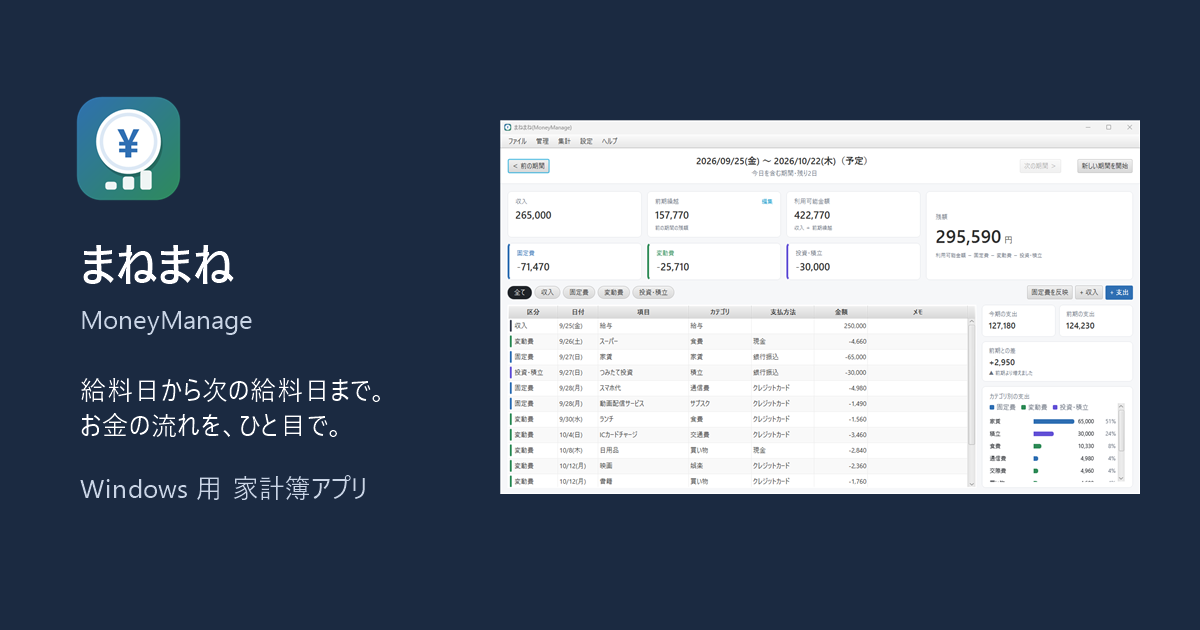
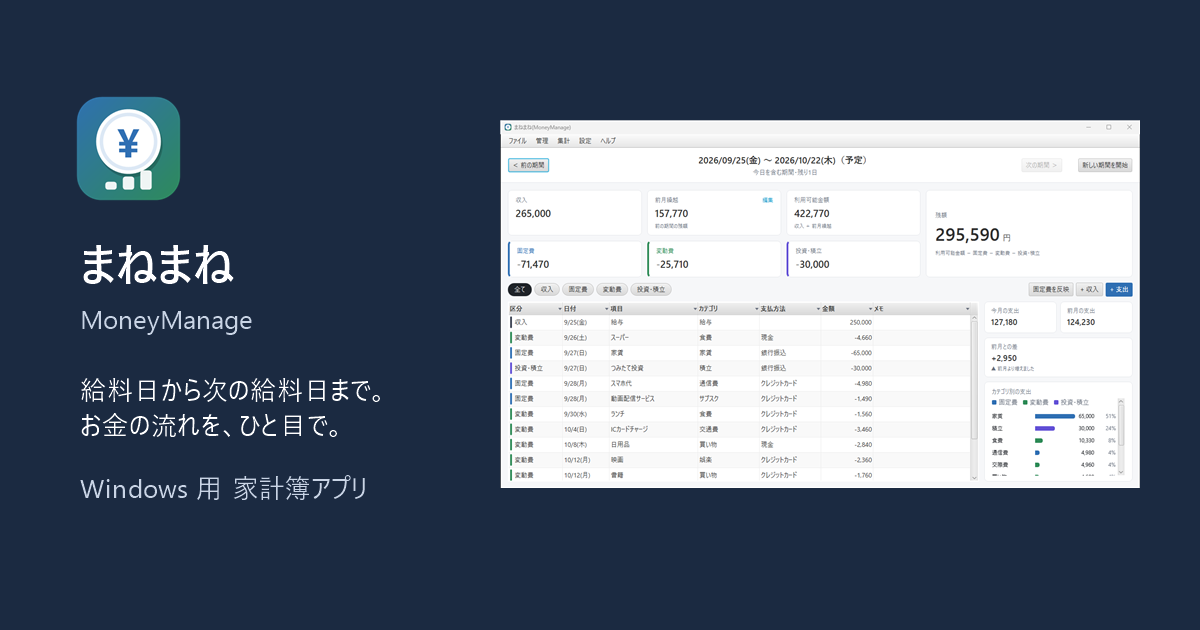
スクリーンショットを撮り直し、使い方に並べ替え・絞り込みと起動時のパスワードを追記
- メイン画面・アプリ内の使い方・OGP 画像を最新の画面（前月表記・列見出しの印）に更新
- 並べ替え・絞り込み、設定、パスワード入力の画面を追加
- 使い方ページに「並べ替え・絞り込み」「起動時のパスワード」の項目と Alt+↓ の操作を追加

diff --git a/guide.html b/guide.html
@@ -16,7 +16,7 @@
   <link rel="preconnect" href="https://fonts.googleapis.com">
   <link rel="preconnect" href="https://fonts.gstatic.com" crossorigin>
   <link href="https://fonts.googleapis.com/css2?family=Noto+Sans+JP:wght@400;500;700&display=swap" rel="stylesheet">
-  <link rel="stylesheet" href="assets/css/style.css?v=20261022a">
+  <link rel="stylesheet" href="assets/css/style.css?v=20261022b">
 </head>
 <body>
   <a class="skip-link" href="#main">本文へ移動</a>
@@ -58,11 +58,13 @@
           <li><a href="#install">ダウンロードと起動</a></li>
           <li><a href="#setup">初回セットアップ</a></li>
           <li><a href="#screen">メイン画面の見方</a></li>
+          <li><a href="#filter">並べ替え・絞り込み</a></li>
           <li><a href="#entries">明細の登録・編集</a></li>
           <li><a href="#period">新しい期間と繰越</a></li>
           <li><a href="#fixed">固定費</a></li>
           <li><a href="#reports">集計（グラフ・年間）</a></li>
           <li><a href="#masters">カテゴリ・支払方法</a></li>
+          <li><a href="#password">起動時のパスワード</a></li>
           <li><a href="#backup">バックアップと PC の移行</a></li>
           <li><a href="#excel">Excel の書き出し・取り込み</a></li>
           <li><a href="#keys">キーボードの操作</a></li>
@@ -110,7 +112,7 @@
         <section id="screen" aria-labelledby="h-screen">
           <h2 id="h-screen">メイン画面の見方</h2>
           <figure>
-            <img src="assets/img/screens/main.png" width="1398" height="817" loading="lazy" alt="メイン画面">
+            <img src="assets/img/screens/main.png" width="1424" height="818" loading="lazy" alt="メイン画面">
             <figcaption>メイン画面（金額は説明用の架空のデータです）</figcaption>
           </figure>
           <div class="table-wrap">
@@ -126,7 +128,25 @@
               </tbody>
             </table>
           </div>
-          <p>右側には、今月と前月の支出、カテゴリ別の支出のグラフが表示されます。明細の一覧は「全て／収入／固定費／変動費／投資・積立」で絞り込めます。</p>
+          <p>右側には、今月と前月の支出、カテゴリ別の支出のグラフが表示されます。明細の一覧は「全て／収入／固定費／変動費／投資・積立」で絞り込めます。列の見出しからは、並べ替えや値ごとの絞り込みもできます（次の項目）。</p>
+        </section>
+
+        <section id="filter" aria-labelledby="h-filter">
+          <h2 id="h-filter">並べ替え・絞り込み</h2>
+          <p>明細の一覧の列の見出し（区分・日付・項目・カテゴリ・支払方法・金額・メモ）をクリックすると、Excel のフィルターのようなメニューが開きます。</p>
+          <figure>
+            <img src="assets/img/screens/filter.png" width="880" height="499" loading="lazy" alt="支払方法の見出しから開いたメニュー。並べ替えのボタンと、値ごとのチェック（クレジットカードだけにチェック）があり、一覧はクレジットカードの明細だけになっている">
+            <figcaption>「支払方法」をクレジットカードだけに絞り込んだところ</figcaption>
+          </figure>
+          <ul>
+            <li><strong>並べ替え</strong> … 日付は「古い順／新しい順」、金額は「小さい順／大きい順」、文字は五十音順。「並べ替えを解除」で元の順（日付順）に戻ります。</li>
+            <li><strong>絞り込み</strong> … 表示したい値にチェックを入れて「OK」。検索欄に入力すると、値の一覧を絞り込めます。空欄の値は「（空白）」と表示されます。</li>
+            <li>複数の列で同時に絞り込めます。上の「全て／収入／固定費…」のボタンとも組み合わせられ、期間を切り替えても絞り込みは残ります。</li>
+            <li>絞り込み中の列は見出しが青くなり、漏斗の印が付きます。並べ替え中の列には ↑ ↓ が付きます。下の欄には「（絞り込み中: ◯件中）」と表示されます。</li>
+            <li>「並べ替え・絞り込みを全解除」で、元の表示に戻ります。</li>
+          </ul>
+          <p>キーボードでは、一覧で <kbd>Alt</kbd> + <kbd>↓</kbd> を押すとメニューが開きます。メニューの中では <kbd>←</kbd> <kbd>→</kbd> で隣の列に移り、<kbd>Space</kbd> でチェックの切り替え、<kbd>Enter</kbd> で決定、<kbd>Esc</kbd> で閉じます。</p>
+          <p class="callout">並べ替え・絞り込みは表示だけの変更です。登録されている明細や集計の金額は変わりません。</p>
         </section>
 
         <section id="entries" aria-labelledby="h-entries">
@@ -179,6 +199,24 @@
           <p>メニュー「管理」→「カテゴリ・支払方法…」で、追加・名前の変更・並べ替え・削除ができます。明細や固定費で使われているものは、削除の代わりに「無効」になります（過去の明細には残り、新しい入力の選択肢から消えます）。「無効も表示」にチェックすると、有効に戻せます。</p>
         </section>
 
+        <section id="password" aria-labelledby="h-password">
+          <h2 id="h-password">起動時のパスワード</h2>
+          <p>メニュー「設定」→「設定…」の「起動時のパスワード」で、アプリを開くときにパスワードの入力を求めるようにできます。</p>
+          <figure>
+            <img src="assets/img/screens/settings.png" width="522" height="361" loading="lazy" alt="設定の画面。起動時のパスワードがオンで、「無効にする」「パスワードを変更」のボタンがある">
+          </figure>
+          <ul>
+            <li><strong>オンにする</strong> … 「パスワードを設定して有効にする」を押し、パスワード（4〜64文字）を確認用と合わせて2回入力します。</li>
+            <li><strong>オフにする・もう一度オンにする・変更する</strong> … どれも現在のパスワードの入力が必要です。</li>
+            <li>オフにしても、設定したパスワードは残ります（もう一度オンにするときに使います）。</li>
+          </ul>
+          <p>オンのときは、起動するとパスワードの入力画面だけが表示されます。正しいパスワードを入力するまで、明細や集計は表示されません。</p>
+          <figure>
+            <img src="assets/img/screens/login.png" width="402" height="183" loading="lazy" alt="起動時のパスワード入力画面">
+          </figure>
+          <p class="callout"><strong>パスワードを忘れると、アプリを開けなくなります</strong>（再設定の方法はありません）。また、これはアプリを開くときの確認で、データのファイル自体は暗号化されません。バックアップから復元すると、パスワードの設定もバックアップした時点のものに戻ります。</p>
+        </section>
+
         <section id="backup" aria-labelledby="h-backup">
           <h2 id="h-backup">バックアップと PC の移行</h2>
           <ul>
@@ -229,6 +267,7 @@
                 <tr><td><kbd>Alt</kbd> + <kbd>←</kbd> / <kbd>→</kbd></td><td>前の期間／次の期間</td></tr>
                 <tr><td><kbd>Enter</kbd>（一覧で）</td><td>選んだ明細を編集</td></tr>
                 <tr><td><kbd>Delete</kbd>（一覧で）</td><td>選んだ明細を削除</td></tr>
+                <tr><td><kbd>Alt</kbd> + <kbd>↓</kbd>（一覧で）</td><td>選んだ列の並べ替え・絞り込みのメニューを開く</td></tr>
                 <tr><td><kbd>Esc</kbd></td><td>入力画面を閉じる</td></tr>
               </tbody>
             </table>
@@ -289,7 +328,7 @@
     </div>
   </footer>
 
-  <script src="assets/js/site-config.js?v=20261022a"></script>
-  <script src="assets/js/main.js?v=20261022a"></script>
+  <script src="assets/js/site-config.js?v=20261022b"></script>
+  <script src="assets/js/main.js?v=20261022b"></script>
 </body>
 </html>

diff --git a/index.html b/index.html
@@ -18,7 +18,7 @@
   <link rel="preconnect" href="https://fonts.googleapis.com">
   <link rel="preconnect" href="https://fonts.gstatic.com" crossorigin>
   <link href="https://fonts.googleapis.com/css2?family=Noto+Sans+JP:wght@400;500;700&display=swap" rel="stylesheet">
-  <link rel="stylesheet" href="assets/css/style.css?v=20261022a">
+  <link rel="stylesheet" href="assets/css/style.css?v=20261022b">
 </head>
 <body>
   <a class="skip-link" href="#main">本文へ移動</a>
@@ -66,7 +66,7 @@
           </ul>
         </div>
         <figure class="shot-frame">
-          <img src="assets/img/screens/main.png" width="1398" height="817"
+          <img src="assets/img/screens/main.png" width="1424" height="818"
                alt="まねまね(MoneyManage) のメイン画面。期間 2026/09/25〜10/22 の収入・前月繰越・利用可能金額・固定費・変動費・投資・積立・残額のカードと、明細の一覧、カテゴリ別の支出グラフが表示されている">
         </figure>
       </div>
@@ -109,7 +109,7 @@
           <article class="feature">
             <span class="feature-icon" aria-hidden="true"><svg width="22" height="22" viewBox="0 0 24 24" fill="none" stroke="currentColor" stroke-width="1.8" stroke-linecap="round" stroke-linejoin="round"><path d="M12 3l8 3v6c0 4.5-3.4 8.3-8 9-4.6-.7-8-4.5-8-9V6z"/><path d="M9 12l2 2 4-4"/></svg></span>
             <h3>データは手元に。バックアップも簡単</h3>
-            <p>インターネットに送信せず、パソコン内に保存。バックアップと復元で PC の移行もできます。</p>
+            <p>インターネットに送信せず、パソコン内に保存。バックアップと復元で PC の移行もでき、起動時のパスワードも設定できます。</p>
           </article>
         </div>
       </div>
@@ -126,7 +126,7 @@
         <div class="screens">
           <figure class="screen screen-wide">
             <button type="button" data-zoom="メイン画面">
-              <img src="assets/img/screens/main.png" width="1398" height="817" loading="lazy"
+              <img src="assets/img/screens/main.png" width="1424" height="818" loading="lazy"
                    alt="メイン画面。上部に期間、カードに収入・前月繰越・利用可能金額・固定費・変動費・投資・積立・残額、下に明細の一覧と分析パネル">
             </button>
             <figcaption><strong>メイン画面</strong>期間の残額と、収入・支出の内訳、明細、カテゴリ別の支出を1画面で確認できます。</figcaption>
@@ -147,10 +147,24 @@
           </figure>
           <figure class="screen">
             <button type="button" data-zoom="アプリ内の使い方">
-              <img src="assets/img/screens/help.png" width="980" height="671" loading="lazy"
+              <img src="assets/img/screens/help.png" width="982" height="672" loading="lazy"
                    alt="アプリ内の使い方の画面。左に目次、右に説明">
             </button>
             <figcaption><strong>アプリ内の使い方</strong>メニューの「ヘルプ」または F1 キーで、いつでも確認できます。</figcaption>
+          </figure>
+          <figure class="screen screen-span2">
+            <button type="button" data-zoom="並べ替え・絞り込み">
+              <img src="assets/img/screens/filter.png" width="880" height="499" loading="lazy"
+                   alt="明細の一覧で、支払方法の見出しから開いた並べ替え・絞り込みのメニュー">
+            </button>
+            <figcaption><strong>並べ替え・絞り込み</strong>列の見出しから、Excel のフィルターのように並べ替え・絞り込みができます。</figcaption>
+          </figure>
+          <figure class="screen">
+            <button type="button" data-zoom="設定（起動時のパスワード）">
+              <img src="assets/img/screens/settings.png" width="522" height="361" loading="lazy"
+                   alt="設定の画面。通常の給料日と、起動時のパスワードのオン／オフ">
+            </button>
+            <figcaption><strong>起動時のパスワード</strong>設定でオンにすると、アプリを開くときにパスワードを確認します。</figcaption>
           </figure>
         </div>
       </div>
@@ -321,7 +335,7 @@
     <img src="" alt="">
   </dialog>
 
-  <script src="assets/js/site-config.js?v=20261022a"></script>
-  <script src="assets/js/main.js?v=20261022a"></script>
+  <script src="assets/js/site-config.js?v=20261022b"></script>
+  <script src="assets/js/main.js?v=20261022b"></script>
 </body>
 </html>

diff --git a/assets/css/style.css b/assets/css/style.css
@@ -435,6 +435,19 @@ p {
   grid-column: 1 / -1;
 }
 
+/* 横長の画面（2列分の幅で、縦横比はそのまま） */
+.screen-span2 {
+  grid-column: span 2;
+}
+
+.screens .screen.screen-span2 button {
+  aspect-ratio: auto;
+}
+
+.screens .screen.screen-span2 img {
+  height: auto;
+}
+
 .screen button {
   display: block;
   width: 100%;
@@ -1029,6 +1042,10 @@ p {
   .steps,
   .screens {
     grid-template-columns: 1fr;
+  }
+
+  .screen-span2 {
+    grid-column: auto;
   }
 
   .release {

diff --git a/404.html b/404.html
@@ -9,7 +9,7 @@
   <link rel="preconnect" href="https://fonts.googleapis.com">
   <link rel="preconnect" href="https://fonts.gstatic.com" crossorigin>
   <link href="https://fonts.googleapis.com/css2?family=Noto+Sans+JP:wght@400;500;700&display=swap" rel="stylesheet">
-  <link rel="stylesheet" href="assets/css/style.css?v=20261022a">
+  <link rel="stylesheet" href="assets/css/style.css?v=20261022b">
 </head>
 <body>
   <header class="site-header">

diff --git a/README.md b/README.md
@@ -59,9 +59,12 @@ Get-FileHash .\Manemane-0.1.0-windows.zip -Algorithm SHA256
 画面の金額は説明用の架空のデータです（実際の家計のデータは使いません）。
 
 1. `python tools/make_demo_db.py <アプリの V1__init.sql> <出力先>/demo.db` でデモデータを作る
-2. アプリを `gradlew.bat :desktop:run -PkakeiboDb=<出力先>\demo.db` で起動し、各画面を `main.png` / `entry.png` / `year.png` / `help.png` として撮影する
+2. アプリを `gradlew.bat :desktop:run -PkakeiboDb=<出力先>\demo.db` で起動し、各画面を撮影する
+   - `main.png` / `entry.png` / `year.png` / `help.png`
+   - `filter.png`（列見出しの絞り込みメニューを開いた一覧）、`settings.png`（設定画面）、`login.png`（起動時のパスワード入力）
+   - 出力先はユーザー名を含まない場所（例: `C:\Users\Public\Documents\...`）にする（設定画面にデータの保存場所が表示されるため）
 3. `powershell -ExecutionPolicy Bypass -File tools\process_screens.ps1 -In <撮影した画像のフォルダ>` で `assets/img/screens` と OGP 画像を更新する
-   （メイン画面はステータスバーのデータの保存場所の表示を切り取ります）
+   （`main.png` は必須。ほかは撮り直したものだけ差し替えます。メイン画面はステータスバーのデータの保存場所の表示を切り取ります）
 
 ## GitHub Pages で公開する
 
